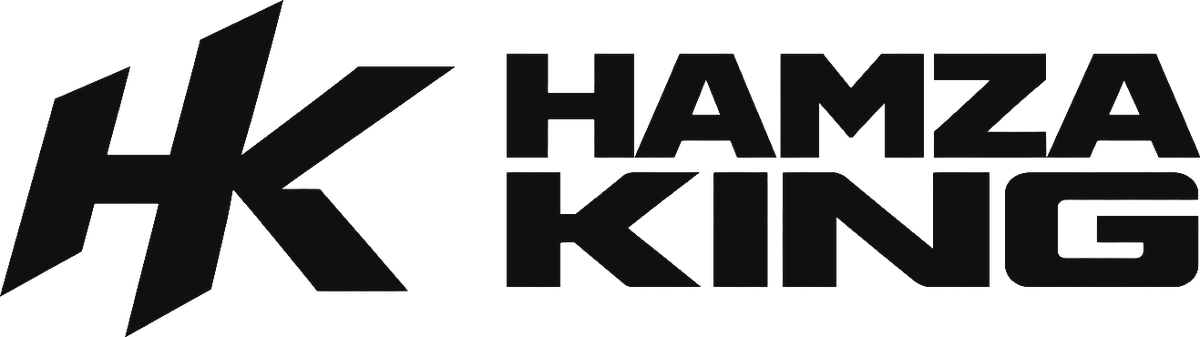
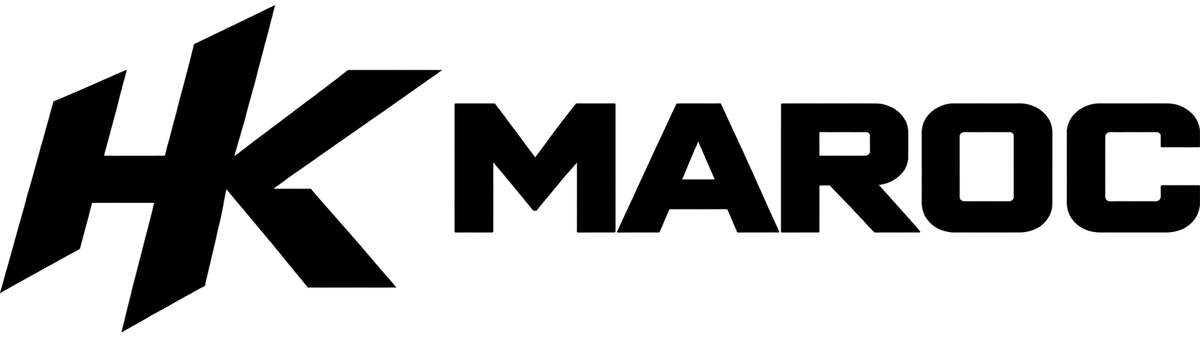
Rebrand storefront to HK MAROC

diff --git a/app/lib/policies.ts b/app/lib/policies.ts
@@ -33,7 +33,7 @@ export const BUILTIN_POLICIES: Record<string, BuiltinPolicy> = {
   termsOfService: p(
     'terms-of-service',
     'Conditions générales',
-    '<p>Dernière mise à jour : 4 octobre 2026</p><h2>1. Vendeur</h2><p>Le site et la boutique sont exploités par HAMZA KING, vendeur de sneakers au Maroc. Contact : WhatsApp +212 614-719446 · hamza20king00@gmail.com.</p><h2>2. Commandes</h2><p>Les commandes peuvent être passées sur le site ou sur WhatsApp. Une commande devient ferme après notre appel ou message de confirmation (modèle, couleur, pointure, prix, adresse). Nous pouvons refuser ou annuler une commande en cas de rupture de stock, d’erreur manifeste de prix, d’informations incomplètes ou de refus répétés de colis.</p><h2>3. Prix</h2><p>Les prix sont indiqués en dirhams marocains (DH), toutes taxes applicables comprises. La livraison est gratuite partout au Maroc. Le prix applicable est celui affiché au moment de la commande et confirmé lors de l’appel.</p><h2>4. Paiement</h2><p>Le paiement s’effectue uniquement en espèces, à la livraison, auprès du livreur. Aucun paiement en ligne n’est demandé.</p><h2>5. Livraison</h2><p>Les modalités et délais de livraison sont décrits dans notre politique d’expédition. Les délais sont indicatifs.</p><h2>6. Produits</h2><p>Nous décrivons chaque paire (modèle, couleur, pointures, photos) le plus fidèlement possible. Les couleurs peuvent légèrement varier selon l’écran. En cas de doute sur une paire ou une pointure, contacte-nous sur WhatsApp avant de commander.</p><h2>7. Échanges et remboursements</h2><p>Les conditions sont décrites dans notre politique de retour et d’échange (échange de pointure gratuit sous 7 jours).</p><h2>8. Données personnelles</h2><p>Les informations collectées servent à traiter et livrer ta commande et à améliorer nos services, conformément à notre politique de confidentialité. Les outils de mesure d’audience et de publicité ne sont activés qu’après ton accord dans le bandeau cookies.</p><h2>9. Droit applicable</h2><p>Les présentes conditions sont régies par le droit marocain, notamment la loi n° 31-08 édictant des mesures de protection du consommateur. En cas de litige, contacte-nous d’abord : nous cherchons toujours une solution amiable.</p>',
+    '<p>Dernière mise à jour : 4 octobre 2026</p><h2>1. Vendeur</h2><p>Le site et la boutique sont exploités par HK MAROC, vendeur de sneakers au Maroc. Contact : WhatsApp +212 614-719446 · hamza20king00@gmail.com.</p><h2>2. Commandes</h2><p>Les commandes peuvent être passées sur le site ou sur WhatsApp. Une commande devient ferme après notre appel ou message de confirmation (modèle, couleur, pointure, prix, adresse). Nous pouvons refuser ou annuler une commande en cas de rupture de stock, d’erreur manifeste de prix, d’informations incomplètes ou de refus répétés de colis.</p><h2>3. Prix</h2><p>Les prix sont indiqués en dirhams marocains (DH), toutes taxes applicables comprises. La livraison est gratuite partout au Maroc. Le prix applicable est celui affiché au moment de la commande et confirmé lors de l’appel.</p><h2>4. Paiement</h2><p>Le paiement s’effectue uniquement en espèces, à la livraison, auprès du livreur. Aucun paiement en ligne n’est demandé.</p><h2>5. Livraison</h2><p>Les modalités et délais de livraison sont décrits dans notre politique d’expédition. Les délais sont indicatifs.</p><h2>6. Produits</h2><p>Nous décrivons chaque paire (modèle, couleur, pointures, photos) le plus fidèlement possible. Les couleurs peuvent légèrement varier selon l’écran. En cas de doute sur une paire ou une pointure, contacte-nous sur WhatsApp avant de commander.</p><h2>7. Échanges et remboursements</h2><p>Les conditions sont décrites dans notre politique de retour et d’échange (échange de pointure gratuit sous 7 jours).</p><h2>8. Données personnelles</h2><p>Les informations collectées servent à traiter et livrer ta commande et à améliorer nos services, conformément à notre politique de confidentialité. Les outils de mesure d’audience et de publicité ne sont activés qu’après ton accord dans le bandeau cookies.</p><h2>9. Droit applicable</h2><p>Les présentes conditions sont régies par le droit marocain, notamment la loi n° 31-08 édictant des mesures de protection du consommateur. En cas de litige, contacte-nous d’abord : nous cherchons toujours une solution amiable.</p>',
   ),
 };
 

diff --git a/app/lib/seo.ts b/app/lib/seo.ts
@@ -1,5 +1,5 @@
 /**
- * HAMZA KING — SEO helpers. One place builds titles, canonicals, robots,
+ * HK MAROC — SEO helpers. One place builds titles, canonicals, robots,
  * Open Graph and JSON-LD so every route follows the same rules:
  *
  * - The site URL is PUBLIC_SITE_URL if set, otherwise SITE.url
@@ -55,11 +55,11 @@ export function isDuplicateVariant(search: string) {
   );
 }
 
-/** Keep the primary keyword first AND the HAMZA KING brand visible. */
+/** Keep the primary keyword first AND the HK MAROC brand visible. */
 export function seoTitle(main: string) {
   const suffix = ` | ${BRAND.name}`;
   const clean = main
-    .replace(/\s*(?:\||[-–—])\s*HAMZA KING\s*$/i, '')
+    .replace(/\s*(?:\||[-–—])\s*(?:HK MAROC|HAMZA KING)\s*$/i, '')
     .trim();
   const maxMainLength = 65 - suffix.length;
   if (clean.length <= maxMainLength) return `${clean}${suffix}`;
@@ -105,7 +105,7 @@ export function seoMeta(a: MetaArgs) {
   const image = a.image
     ? a.image
     : base
-      ? `${base}/brand/og-image.jpg`
+      ? `${base}/brand/og-image.jpg?v=hk-maroc`
       : undefined;
 
   const tags: Record<string, unknown>[] = [
@@ -188,7 +188,7 @@ export function organizationLd(base: string) {
     name: BRAND.name,
     url: base,
     logo: `${base}/brand/icon-512.png`,
-    image: `${base}/brand/og-image.jpg`,
+    image: `${base}/brand/og-image.jpg?v=hk-maroc`,
     description: BRAND.tagline,
     email: BRAND.email || undefined,
     telephone: `+${WHATSAPP_NUMBER}`,

diff --git a/app/components/BrandLogo.tsx b/app/components/BrandLogo.tsx
@@ -1,11 +1,11 @@
 import {BRAND} from '~/lib/config';
 
 /**
- * HAMZA KING logo system. Files live in /public/brand/ in black and white.
+ * HK MAROC logo system. Files live in /public/brand/ in black and white.
  *
- * - lockup:          HK mark + stacked wordmark  → header, mobile menu
+ * - lockup:          HK mark + MAROC wordmark    → header, mobile menu
  * - hk:              HK monogram only             → small marks, footer bar, icons
- * - wordmark:        stacked "HAMZA KING"         → footer signature
+ * - wordmark:        stacked "HK MAROC"         → footer signature
  * - crown-wordmark:  crown + italic wordmark      → error page, about, social image
  * - crown:           crown only                   → empty states, small accents
  */
@@ -37,9 +37,10 @@ export function BrandLogo({
   eager?: boolean;
 }) {
   const {file, ratio} = FILES[variant];
+  const version = variant === 'hk' || variant === 'crown' ? '' : '?v=hk-maroc';
   return (
     <img
-      src={`/brand/${file}-${tone}.png`}
+      src={`/brand/${file}-${tone}.png${version}`}
       alt={decorative ? '' : BRAND.name}
       width={Math.round(height * ratio)}
       height={height}

diff --git a/app/lib/config.ts b/app/lib/config.ts
@@ -1,14 +1,13 @@
 /**
- * HAMZAKINGSTORE — central store configuration.
+ * HK MAROC — central store configuration.
  * Edit this file to change brand copy, contact details, shipping rules
  * and homepage merchandising without touching component code.
  */
 
 export const BRAND = {
-  name: 'HAMZA KING',
-  legalName: 'HAMZAKINGSTORE',
+  name: 'HK MAROC',
   tagline: 'Sneakers. Livraison gratuite partout au Maroc.',
-  instagram: 'https://www.instagram.com/hamza__king07__/',
+  instagram: 'https://www.instagram.com/hk_maroc_store/',
   tiktok: 'https://www.tiktok.com/@brahmi.hamza4',
   /** Leave empty to hide the link. */
   facebook: '',
@@ -66,7 +65,7 @@ export const SOCIALS = [
   {
     network: 'instagram',
     name: 'Instagram',
-    handle: '@hamza__king07__',
+    handle: '@hk_maroc_store',
     url: BRAND.instagram,
   },
   {
@@ -78,7 +77,7 @@ export const SOCIALS = [
   {
     network: 'facebook',
     name: 'Facebook',
-    handle: 'HAMZA KING',
+    handle: 'HK MAROC',
     url: BRAND.facebook,
   },
 ].filter((s) => s.url) as {

diff --git a/app/lib/content.ts b/app/lib/content.ts
@@ -316,12 +316,12 @@ export const PAGES: Record<
   'a-propos': {
     title: 'Notre histoire',
     intro:
-      'HAMZA KING est né d’une obsession : trouver les bonnes paires et les rendre accessibles partout au Maroc.',
+      'HK MAROC est né d’une obsession : trouver les bonnes paires et les rendre accessibles partout au Maroc.',
     sections: [
       {
         title: 'Pourquoi nous',
         body: [
-          'On a tous connu la déception d’une paire commandée en ligne qui arrive en retard, dans une boîte abîmée ou dans la mauvaise taille. On a construit HAMZA KING pour que ça n’arrive plus.',
+          'On a tous connu la déception d’une paire commandée en ligne qui arrive en retard, dans une boîte abîmée ou dans la mauvaise taille. On a construit HK MAROC pour que ça n’arrive plus.',
           'Chaque modèle est choisi pour son style et son confort, contrôlé avant de partir, et livré gratuitement. Tu payes seulement quand tu l’as entre les mains.',
         ],
       },

diff --git a/app/routes/policies.$handle.tsx b/app/routes/policies.$handle.tsx
@@ -14,7 +14,7 @@ export const meta: Route.MetaFunction = ({data, matches, location}) =>
     matches,
     location,
     title: data?.policy.title ?? 'Conditions',
-    description: `${data?.policy.title ?? 'Conditions'} de HAMZA KING : livraison gratuite au Maroc, paiement à la livraison, échange de pointure gratuit sous 7 jours.`,
+    description: `${data?.policy.title ?? 'Conditions'} de HK MAROC : livraison gratuite au Maroc, paiement à la livraison, échange de pointure gratuit sous 7 jours.`,
   });
 
 export async function loader({params, context}: Route.LoaderArgs) {

diff --git a/app/routes/_index.tsx b/app/routes/_index.tsx
@@ -42,7 +42,7 @@ export const meta: Route.MetaFunction = ({matches, location}) => {
     path: '/',
     title: 'Sneakers Maroc : Nike, Adidas, New Balance',
     description:
-      'Découvrez les sneakers Nike, Adidas, New Balance et ASICS chez HAMZA KING. Livraison gratuite au Maroc, paiement à la livraison et échange de pointure.',
+      'Découvrez les sneakers Nike, Adidas, New Balance et ASICS chez HK MAROC. Livraison gratuite au Maroc, paiement à la livraison et échange de pointure.',
     jsonLd: base ? [organizationLd(base), websiteLd(base)] : [],
   });
 };

diff --git a/app/routes/collections.all.tsx b/app/routes/collections.all.tsx
@@ -23,7 +23,7 @@ export const meta: Route.MetaFunction = ({matches, location}) =>
     path: '/collections/all',
     title: 'Toutes les sneakers au Maroc',
     description:
-      'Toutes les sneakers HAMZA KING : running, lifestyle, basket, outdoor. Livraison gratuite partout au Maroc, paiement à la livraison, échange gratuit sous 7 jours.',
+      'Toutes les sneakers HK MAROC : running, lifestyle, basket, outdoor. Livraison gratuite partout au Maroc, paiement à la livraison, échange gratuit sous 7 jours.',
   });
 
 /**

diff --git a/app/routes/marques.tsx b/app/routes/marques.tsx
@@ -18,7 +18,7 @@ export const meta: Route.MetaFunction = ({matches, location}) =>
     path: '/marques',
     title: 'Marques de sneakers au Maroc',
     description:
-      'Toutes les marques de sneakers disponibles chez HAMZA KING. Livraison gratuite partout au Maroc, paiement à la livraison.',
+      'Toutes les marques de sneakers disponibles chez HK MAROC. Livraison gratuite partout au Maroc, paiement à la livraison.',
   });
 
 export default function BrandsPage() {

diff --git a/app/routes/blogs.$blogHandle.$articleHandle.tsx b/app/routes/blogs.$blogHandle.$articleHandle.tsx
@@ -25,7 +25,7 @@ export const meta: Route.MetaFunction = ({data, matches, location}) => {
             headline: a.title,
             datePublished: a.publishedAt,
             image: a.image?.url,
-            author: {'@type': 'Organization', name: 'HAMZA KING'},
+            author: {'@type': 'Organization', name: 'HK MAROC'},
             publisher: {'@id': `${base}/#organization`},
             mainEntityOfPage: `${base}${path}`,
             inLanguage: 'fr-MA',

diff --git a/app/routes/suivi.tsx b/app/routes/suivi.tsx
@@ -24,7 +24,7 @@ export const meta: Route.MetaFunction = () => [
   {
     name: 'description',
     content:
-      'Suis ta commande HAMZA KING avec ton numéro de commande et ton téléphone : confirmation, expédition, livraison.',
+      'Suis ta commande HK MAROC avec ton numéro de commande et ton téléphone : confirmation, expédition, livraison.',
   },
   {tagName: 'link', rel: 'canonical', href: '/suivi'},
   {name: 'robots', content: 'noindex, follow'},

diff --git a/app/routes/blogs.$blogHandle._index.tsx b/app/routes/blogs.$blogHandle._index.tsx
@@ -12,7 +12,7 @@ export const meta: Route.MetaFunction = ({data, matches, location}) =>
     location,
     title: `${data?.blog.title ?? 'Journal'} — guides sneakers et running`,
     description:
-      'Guides pointure, entretien, running et nouveautés sneakers au Maroc, par HAMZA KING.',
+      'Guides pointure, entretien, running et nouveautés sneakers au Maroc, par HK MAROC.',
   });
 
 export async function loader(args: Route.LoaderArgs) {
